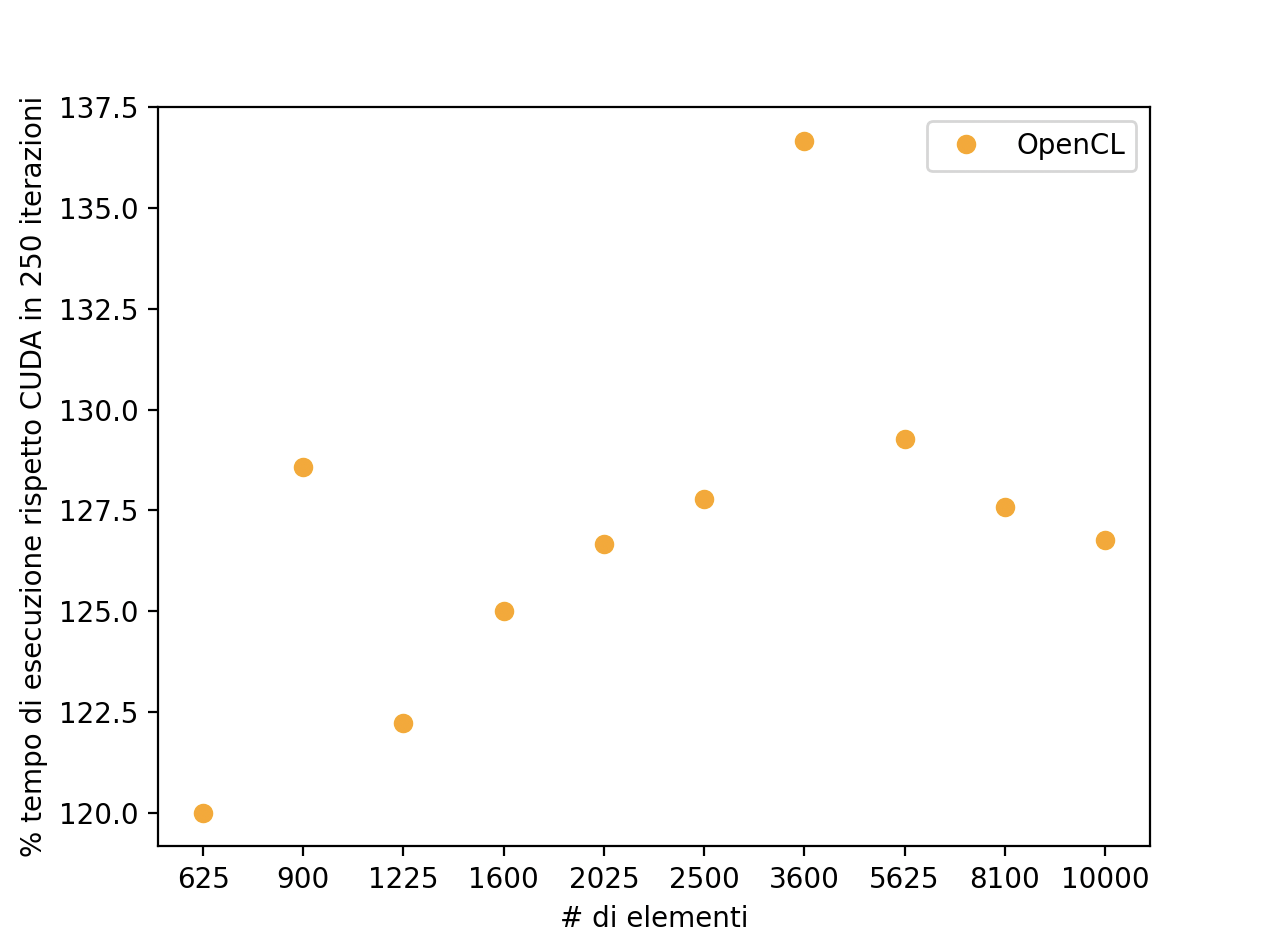
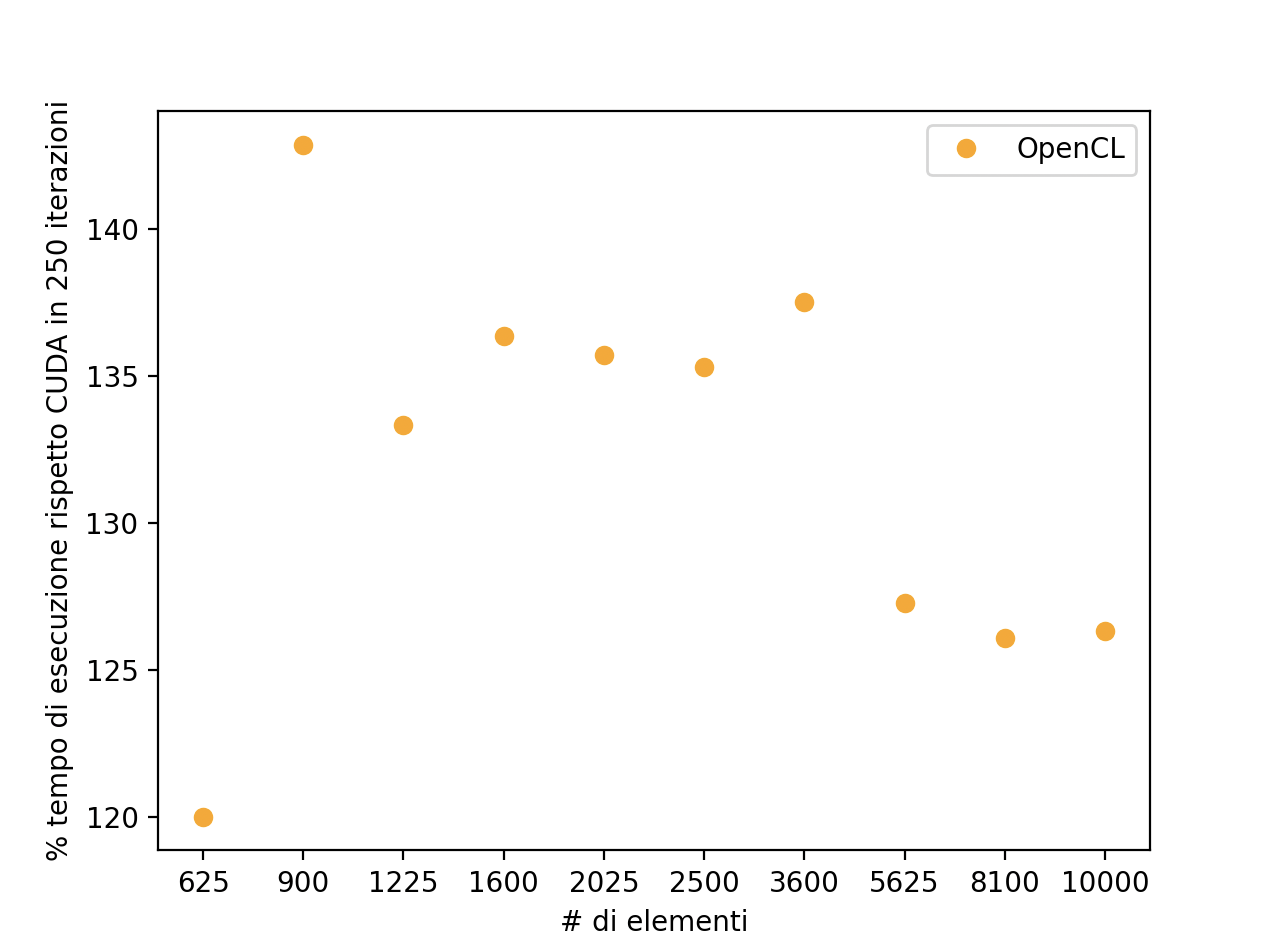
fix(cha 4): update results with latest library version

diff --git a/chapters/4-Risultati.tex b/chapters/4-Risultati.tex
@@ -58,7 +58,7 @@ procedure lineari per implementare la parallelizzazione possano aver introdotto 
 percentuale di tempo di esecuzione rispetto all'implementazione originale e al numero
 di elementi della RIS. Tutti i test dimostrano una chiara superiorità delle
 soluzioni che sfruttano il calcolo parallelo, con le implementazioni su GPU che ottengono
-un tempo di esecuzione da l'$1,2\%$ all'$1,6\%$ rispetto all'implementazione originale,
+un tempo di esecuzione da l'$0,28\%$ all'$1,7\%$ rispetto all'implementazione originale,
 mentre per quella su CPU si ottengono valori che variano dal $10,2\%$ al
 $13,3\%$, perfettamente in linea con l'ideale $12,5\%$ di miglioramento atteso.
 I benchmark sono stati eseguiti su una macchina con processore \textit{Intel
@@ -175,7 +175,7 @@ delle prestazioni dei framework GPU al variare del numero di elementi RISs. La b
 al $100\%$ rappresenta il tempo di esecuzione della procedura tramite \textit{CUDA}
 allo specifico numero di elementi. Si può osservare come questa implementazione sia
 leggermente più performante rispetto a quella tramite \textit{OpenCL}, con una diminuzione
-prestazionale che varia dal $20\%$ al $37,5\%$. Inoltre, nella misurazione è stato
+prestazionale che varia dal $20\%$ al $45\%$. Inoltre, nella misurazione è stato
 volutamente omesso il tempo di inizializzazione degli oggetti \texttt{ReconfigurableIntelligentSurface},
 che in \textit{OpenCL} comprende la compilazione del \textit{kernel} della funzione
 \texttt{gain} a runtime, poiché è un'operazione che viene eseguita una sola volta
@@ -224,8 +224,8 @@ l'ausilio della RIS data la presenza dell'edificio. Gli esiti delle misurazioni,
 consultabili nelle figure \ref{fig:risultati-framework} e
 \ref{fig:risultati-framework-log} rispettivamente in scala lineare e logaritmica,
 sono completamente in linea con quelli ottenuti durante il benchmarking della libreria.
-Specificamente, si rilevano incrementi prestazionali da un minimo di $37$ volte fino
-ad un massimo di $80$ nel caso in cui la RIS possedeva il numero massimo di elementi
+Specificamente, si rilevano incrementi prestazionali da un minimo di $50$ volte fino
+ad un massimo di $97$ nel caso in cui la RIS possedeva il numero massimo di elementi
 supportati tramite parallelizzazione su GPU, e un miglioramento di circa $8$
 volte per tutte le configurazioni della RIS tramite parallelizzazione su CPU, perfettamente
 lineare con il numero di thread utilizzati considerando il tempo di inizializzazione
